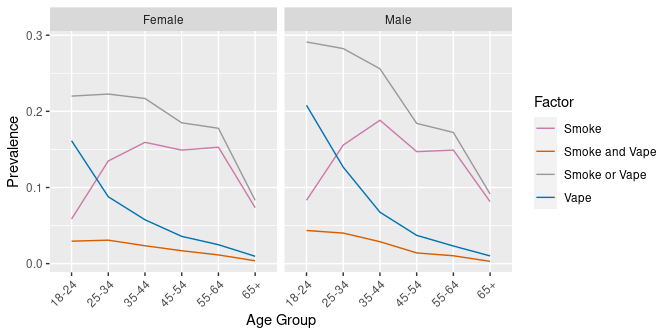
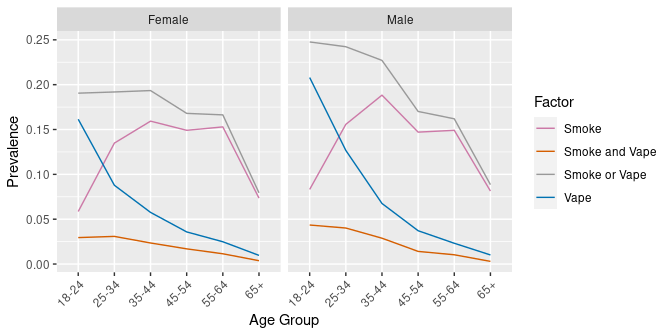
Minor code cleanup.

diff --git a/sql_examples.md b/sql_examples.md
@@ -355,6 +355,7 @@ sql <- 'SELECT _AGE_G AS "Age Group", BIRTHSEX AS Gender,
 COUNT(*) AS Respondents, 
 COUNT(IF(SMOKDAY2 IN (1, 2), 1, NULL)) AS Smokers,
 COUNT(IF(ECIGNOW1 IN (1, 2), 1, NULL)) AS Vapers, 
+COUNT(IF((SMOKDAY2 IN (1, 2)) OR (ECIGNOW1 IN (1, 2)), 1, NULL)) AS SmokeOrVapers,
 COUNT(IF((SMOKDAY2 IN (1, 2)) AND (ECIGNOW1 IN (1, 2)), 1, NULL)) AS SmokeAndVapers, 
 FROM brfss2021 WHERE IYEAR = 2021 AND (Gender IN (1, 2)) 
 GROUP BY _AGE_G, BIRTHSEX ORDER BY _AGE_G, BIRTHSEX;'
@@ -375,7 +376,7 @@ age.labels <- c('18-24', '25-34', '35-44', '45-54', '55-64', '65+')
 consumers <- rs %>% group_by(`Age Group`, Gender) %>%
   mutate(`Smoke` = Smokers/Respondents,
          `Vape` = Vapers/Respondents,
-         `Smoke or Vape` = sum(Smokers, Vapers, na.rm = TRUE)/Respondents,
+         `Smoke or Vape` = SmokeOrVapers/Respondents,
          `Smoke and Vape` = SmokeAndVapers/Respondents,
          `Age Group` = factor(`Age Group`, levels = 1:6, labels = age.labels)) %>%
     pivot_longer(c(`Smoke`, `Vape`, `Smoke or Vape`, `Smoke and Vape`), 
